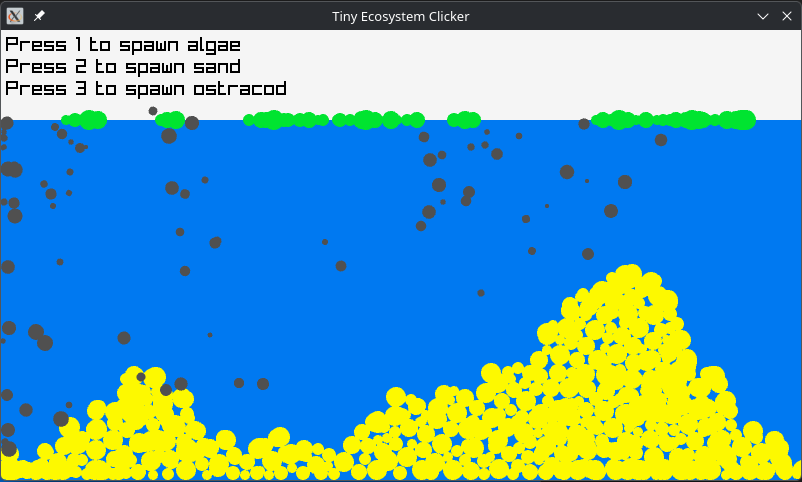
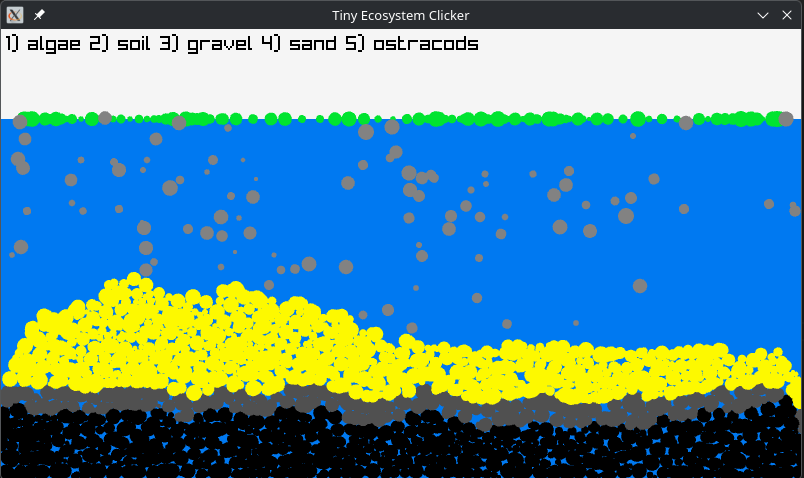
Add soil and gravel

diff --git a/src/entities.cpp b/src/entities.cpp
@@ -19,26 +19,27 @@ void Algae::update(float waterSurfaceY){
     pos.y += velocity.y;
 }
 
-Sand::Sand(){
+Substrate::Substrate(SubstrateType substrateType){
+    type = substrateType;
     active = true;
     pos = GetMousePosition();
     velocity = VEC2(0.0f, 0.0f);
-    radius = randomBetween(Sand::SIZE_RANGE.x, Sand::SIZE_RANGE.y);
+    radius = randomBetween(Substrate::SIZE_RANGE.x, Substrate::SIZE_RANGE.y);
 }
 
-void Sand::settle(){
+void Substrate::settle(){
     velocity.y = 0.0f;
     active = false;
 }
 
-void Sand::update(Environment & ecosystem, vector<Sand> & sand, size_t currentSandIdx){
+void Substrate::update(Environment & ecosystem, vector<Substrate> & substrate, size_t currentSandIdx){
     if(!active){
         return;
     }
 
     //Gravity and buoyancy
     if(pos.y < ecosystem.waterSurfaceY){
-        velocity.y += GRAVITY * (radius / Sand::SIZE_RANGE.y);
+        velocity.y += GRAVITY * (radius / Substrate::SIZE_RANGE.y);
     }
     else{
         float buoyancy = 1.0f - (pos.y - ecosystem.waterSurfaceY) / ecosystem.waterLevel;
@@ -50,26 +51,26 @@ void Sand::update(Environment & ecosystem, vector<Sand> & sand, size_t currentSa
         velocity.y = std::min(buoyancy, velocity.y);
     }
 
-    //When sand particles hit the ground, stop them.
+    //When substrate particles hit the ground, stop them.
     if(pos.y + radius >= SCREEN_HEIGHT){
         settle();
         return;
     }
 
-    //Check simple collisions between falling (active) and settled sand particles
+    //Check simple collisions between falling (active) and settled substrate particles
     if(velocity.y > 0){
         bool collisionOnTheLeft = false;
         bool collisionOnTheRight = false;
-        for(size_t other = 0; other < sand.size(); ++other){
-            //Ignore itself and other falling sand particles
-            if(other == currentSandIdx || sand[other].active)
+        for(size_t other = 0; other < substrate.size(); ++other){
+            //Ignore itself and other falling substrate particles
+            if(other == currentSandIdx || substrate[other].active)
                 continue;
 
-            float distance = getDistance(pos, sand[other].pos);
-            if(distance > radius + sand[other].radius)
+            float distance = getDistance(pos, substrate[other].pos);
+            if(distance > radius + substrate[other].radius)
                 continue;
 
-            if(sand[other].pos.x <= pos.x)
+            if(substrate[other].pos.x <= pos.x)
                 collisionOnTheLeft = true;
             else
                 collisionOnTheRight = true;
@@ -210,7 +211,7 @@ void Ostracod::move(Environment & ecosystem, vector<Algae> & algaes, bool isUnde
     limitVector(velocity, SPEED_LIMIT);
 }
 
-void Ostracod::detectCollisions(vector<Sand> & sand, const Vector2 nextPosition){
+void Ostracod::detectCollisions(vector<Substrate> & substrate, const Vector2 nextPosition){
     //Collisions with the aquarium
     //Floor
     if(velocity.y > 0.0f && nextPosition.y + radius >= SCREEN_HEIGHT){
@@ -225,17 +226,17 @@ void Ostracod::detectCollisions(vector<Sand> & sand, const Vector2 nextPosition)
         velocity.x = 0.0f;
     }
 
-    //Collisions with sand
-    for(const Sand & sandIt : sand){
-        if(sandIt.active)
+    //Collisions with substrate
+    for(const Substrate & substrateIt : substrate){
+        if(substrateIt.active)
             continue;
 
-        float distance = getDistance(nextPosition, sandIt.pos);
-        if(distance <= radius + sandIt.radius){
+        float distance = getDistance(nextPosition, substrateIt.pos);
+        if(distance <= radius + substrateIt.radius){
             velocity.x = 0.0f;
             velocity.y = 0.0f;
 
-            //When there's a sand hill between this ostracod and algae:
+            //When there's a substrate obstacle between this ostracod and algae:
             //1. Move randomly to unstuck it.
             //2. If ostracod didn't get unstuck, repeat 1., otherwise go to the surface.
             //3. After reaching the surface come back to searching food.
@@ -284,8 +285,8 @@ void Ostracod::applyGravityAndBuoyancy(Environment & ecosystem, bool isUnderwate
     }
 }
 
-void Ostracod::update(Environment & ecosystem, vector<Algae> & algaes, vector<Sand> & sand,
-    size_t &aliveOstracods
+void Ostracod::update(Environment & ecosystem, vector<Algae> & algaes,
+    vector<Substrate> & substrate, size_t &aliveOstracods
 ){
     if(!active)
         return;
@@ -317,7 +318,7 @@ void Ostracod::update(Environment & ecosystem, vector<Algae> & algaes, vector<Sa
         pos.y + velocity.y
     );
 
-    detectCollisions(sand, nextPosition);
+    detectCollisions(substrate, nextPosition);
 
     eatAlgae(algaes);
 

diff --git a/src/simulation.cpp b/src/simulation.cpp
@@ -3,7 +3,7 @@
 Simulation::Simulation(){}
 
 void Simulation::spawnAlgae(){
-    if(IsKeyDown(KEY_ONE)){
+    if(IsKeyDown(SPAWN_ALGAE_BUTTON)){
         algaes.emplace_back();
     }
 }
@@ -13,19 +13,29 @@ void Simulation::updateAlgaes(){
     }
 }
 
-void Simulation::spawnSand(){
-    if(IsKeyDown(KEY_TWO)){
-        sand.emplace_back();
+void Simulation::spawnSoil(){
+    if(IsKeyDown(SPAWN_SOIL_BUTTON)){
+        substrate.emplace_back(SubstrateType::soil);
     }
 }
-void Simulation::updateSand(){
-    for(size_t sandIdx = 0; sandIdx < sand.size(); ++sandIdx){
-        sand[sandIdx].update(ecosystem, sand, sandIdx);
+void Simulation::spawnSand(){
+    if(IsKeyDown(SPAWN_SAND_BUTTON)){
+        substrate.emplace_back(SubstrateType::sand);
+    }
+}
+void Simulation::spawnGravel(){
+    if(IsKeyDown(SPAWN_GRAVEL_BUTTON)){
+        substrate.emplace_back(SubstrateType::gravel);
+    }
+}
+void Simulation::updateSubstrate(){
+    for(size_t substrateIdx = 0; substrateIdx < substrate.size(); ++substrateIdx){
+        substrate[substrateIdx].update(ecosystem, substrate, substrateIdx);
     }
 }
 
 void Simulation::spawnOstracods(){
-    if(IsKeyDown(KEY_THREE)){
+    if(IsKeyDown(SPAWN_OSTRACODS_BUTTON)){
         ostracods.emplace_back();
         ++totalOstracods;
     }
@@ -33,17 +43,19 @@ void Simulation::spawnOstracods(){
 void Simulation::updateOstracods(){
     aliveOstracods = 0;
     for(Ostracod & ostracodIt : ostracods){
-        ostracodIt.update(ecosystem, algaes, sand, aliveOstracods);
+        ostracodIt.update(ecosystem, algaes, substrate, aliveOstracods);
     }
-    printf("Alive: %lu / %lu\n", aliveOstracods, totalOstracods);
+    //printf("Alive: %lu / %lu\n", aliveOstracods, totalOstracods);
 }
 
 void Simulation::update(){
     updateAlgaes();
-    updateSand();
+    updateSubstrate();
     updateOstracods();
 
     spawnAlgae();
+    spawnSoil();
+    spawnGravel();
     spawnSand();
     spawnOstracods();
 }
@@ -53,11 +65,23 @@ void Simulation::draw() const {
     for(const Algae & algaeIt : algaes){
         DrawCircle(algaeIt.pos.x, algaeIt.pos.y, algaeIt.radius, GREEN); 
     }
-    for(const Sand & sandIt : sand){
-        DrawCircle(sandIt.pos.x, sandIt.pos.y, sandIt.radius, YELLOW); 
+    for(const Substrate & substrateIt : substrate){
+        switch (substrateIt.type){
+        case SubstrateType::soil:
+            DrawCircle(substrateIt.pos.x, substrateIt.pos.y, substrateIt.radius, BLACK);
+            break;
+        case SubstrateType::sand:
+            DrawCircle(substrateIt.pos.x, substrateIt.pos.y, substrateIt.radius, YELLOW);
+            break;
+        case SubstrateType::gravel:
+            DrawCircle(substrateIt.pos.x, substrateIt.pos.y, substrateIt.radius, DARKGRAY);
+            break;
+        default:
+            break;
+        }
     }
     for(const Ostracod & ostracodIt : ostracods){
         //DrawCircleLines(ostracod.pos.x, ostracod.pos.y, ostracod.vision, BLACK); 
-        DrawCircle(ostracodIt.pos.x, ostracodIt.pos.y, ostracodIt.radius, DARKGRAY); 
+        DrawCircle(ostracodIt.pos.x, ostracodIt.pos.y, ostracodIt.radius, GRAY); 
     }
 }

diff --git a/src/entities.hpp b/src/entities.hpp
@@ -22,12 +22,16 @@ public:
     void update(float waterSurfaceY);
 };
 
-class Sand: public Entity{
+enum class SubstrateType {soil, sand, gravel};
+
+class Substrate: public Entity{
     constexpr static Vector2 SIZE_RANGE = VEC2(2.0f, 8.0f);
 public:
-    Sand();
+    SubstrateType type = SubstrateType::soil;
+
+    Substrate(SubstrateType substrateType);
     void settle();
-    void update(Environment & ecosystem, vector<Sand> & sand, size_t currentSandIdx);
+    void update(Environment & ecosystem, vector<Substrate> & substrate, size_t currentSandIdx);
 };
 
 class Ostracod: public Entity{
@@ -66,11 +70,11 @@ public:
     void thinkAndMove(Environment & ecosystem, vector<Algae> & algaes, bool isUnderwater);
     //Movement when alive or dead
     void move(Environment & ecosystem, vector<Algae> & algaes, bool isUnderwater);
-    void detectCollisions(vector<Sand> & sand, const Vector2 nextPosition);
+    void detectCollisions(vector<Substrate> & substrate, const Vector2 nextPosition);
     //Eat one algae
     void eatAlgae(vector<Algae> & algaes);
     void applyGravityAndBuoyancy(Environment & ecosystem, bool isUnderwater);
-    void update(Environment & ecosystem, vector<Algae> & algaes, vector<Sand> & sand,
+    void update(Environment & ecosystem, vector<Algae> & algaes, vector<Substrate> & substrate,
         size_t & aliveOstrecods
     );
 };

diff --git a/src/simulation.hpp b/src/simulation.hpp
@@ -1,9 +1,15 @@
 #include "entities.hpp"
 
+const int SPAWN_ALGAE_BUTTON = KEY_ONE;
+const int SPAWN_SOIL_BUTTON = KEY_TWO;
+const int SPAWN_GRAVEL_BUTTON = KEY_THREE;
+const int SPAWN_SAND_BUTTON = KEY_FOUR;
+const int SPAWN_OSTRACODS_BUTTON = KEY_FIVE;
+
 class Simulation{
     Environment ecosystem;
     vector<Algae> algaes;
-    vector<Sand> sand;
+    vector<Substrate> substrate;
     vector<Ostracod> ostracods;
 
     size_t totalOstracods = 0;
@@ -14,8 +20,11 @@ public:
     void spawnAlgae();
     void updateAlgaes();
 
+    void spawnSoil();
+
     void spawnSand();
-    void updateSand();
+    void spawnGravel();
+    void updateSubstrate();
 
     void spawnOstracods();
     void updateOstracods();

diff --git a/src/main.cpp b/src/main.cpp
@@ -1,4 +1,7 @@
 #include "simulation.hpp"
+#include <string>
+
+using std::string;
 
 void update(Simulation & simulation){
     simulation.update();
@@ -11,7 +14,13 @@ void draw(const Simulation & simulation){
 
     simulation.draw();
 
-    DrawText("Press 1 to spawn algae\nPress 2 to spawn sand\nPress 3 to spawn ostracod", 5, 5, 20, BLACK);
+    string tutorial = "1) algae "
+        "2) soil "
+        "3) gravel "
+        "4) sand "
+        "5) ostracods";
+
+    DrawText(tutorial.c_str(), 5, 5, 20, BLACK);
 
     EndDrawing();
 }
